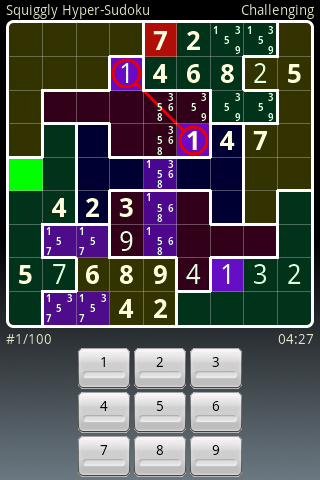
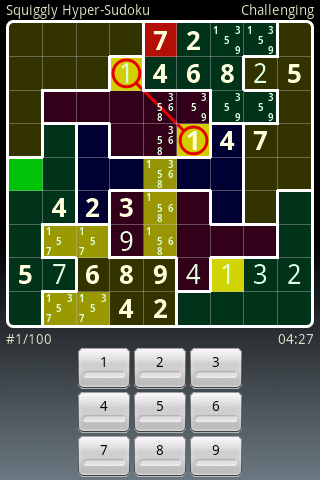
added dark theme
git-svn-id: http://andoku.googlecode.com/svn/trunk@297 8b5035ae-46ba-11de-80ae-c1ff141340a0

diff --git a/Andoku/src/com/googlecode/andoku/ColorThemePolicy.java b/Andoku/src/com/googlecode/andoku/ColorThemePolicy.java
@@ -1,0 +1,58 @@
+/*
+ * Andoku - a sudoku puzzle game for Android.
+ * Copyright (C)   Markus Wiederkehr
+ *
+ * This file is part of Andoku.
+ *
+ * Andoku is free software: you can redistribute it and/or modify
+ * it under the terms of the GNU General Public License as published by
+ * the Free Software Foundation, either version 3 of the License, or
+ * (at your option) any later version.
+ *
+ * Andoku is distributed in the hope that it will be useful,
+ * but WITHOUT ANY WARRANTY; without even the implied warranty of
+ * MERCHANTABILITY or FITNESS FOR A PARTICULAR PURPOSE.  See the
+ * GNU General Public License for more details.
+ *
+ * You should have received a copy of the GNU General Public License
+ * along with Andoku.  If not, see <http://www.gnu.org/licenses/>.
+ */
+
+package com.googlecode.andoku;
+
+import com.googlecode.andoku.ColorTheme.Builder;
+
+public enum ColorThemePolicy {
+	CLASSIC {
+		@Override
+		public void customize(Builder builder) {
+		}
+	},
+
+	DARK {
+		@Override
+		public void customize(Builder builder) {
+			builder.backgroudColors = new int[] { 0xff000000, 0xff000000, 0xff6b7881 };
+			builder.puzzleBackgroundColor = 0xff000000;
+			builder.nameTextColor = 0xffffffdd;
+			builder.difficultyTextColor = 0xffffffdd;
+			builder.sourceTextColor = 0xffffffdd;
+			builder.timerTextColor = 0xffffffdd;
+			builder.gridColor = 0x66bfbfbf;
+			builder.borderColor = 0xffffffff;
+			builder.extraRegionColor = 0xcd7b89cd;
+			builder.valueColor = 0xffddffdd;
+			builder.clueColor = 0xffffffdd;
+			builder.errorColor = 0xffe60000;
+			builder.markedCellColor = 0xb300ff00;
+			builder.markedClueColor = 0xb3ff0000;
+			builder.areaColors2 = new int[] { 0xff000000, 0xff333333 };
+			builder.areaColors3 = new int[] { 0xff000033, 0xff330000, 0xff003300 };
+			builder.areaColors4 = new int[] { 0xff000033, 0xff33001a, 0xff333300, 0xff00331a };
+			builder.highlightedCellColorSingleDigit = 0xe6e6e600;
+			builder.highlightedCellColorMultipleDigits = 0xe6a6a600;
+		}
+	};
+
+	public abstract void customize(Builder builder);
+}

diff --git a/Andoku/src/com/googlecode/andoku/AndokuActivity.java b/Andoku/src/com/googlecode/andoku/AndokuActivity.java
@@ -288,28 +288,9 @@ public class AndokuActivity extends Activity
 		builder.highlightDigitsPolicy = HighlightDigitsPolicy.valueOf(settings.getString(
 				Settings.KEY_HIGHLIGHT_DIGITS, HighlightDigitsPolicy.ONLY_SINGLE_VALUES.name()));
 
-		// TODO: set colors
-
-//		// example for a sandy theme
-//		builder.backgroudColors = new int[] { 0xffefefef };
-//		builder.puzzleBackgroundColor = 0xffffffea;
-//		builder.nameTextColor = 0xff000000;
-//		builder.difficultyTextColor = 0xff000000;
-//		builder.sourceTextColor = 0xff000000;
-//		builder.timerTextColor = 0xff000000;
-//		builder.gridColor = 0x5a000000;
-//		builder.borderColor = 0xff000000;
-//		builder.extraRegionColor = 0x4d00ff00;
-//		builder.valueColor = 0xff0e4772;
-//		builder.clueColor = 0xff000000;
-//		builder.errorColor = 0xffff4a4a;
-//		builder.markedCellColor = 0x9affa600;
-//		builder.markedClueColor = 0x9aff0000;
-//		builder.areaColors2 = new int[] { 0xffffffff, 0xffe0e0e0 };
-//		builder.areaColors3 = new int[] { 0xffffd9d9, 0xffd9ffd9, 0xffd9d9ff };
-//		builder.areaColors4 = new int[] { 0xffffffd9, 0xffd9ffec, 0xffd9d9ff, 0xffffd9ec };
-//		builder.highlightedCellColorSingleDigit = 0xe6ffff00;
-//		builder.highlightedCellColorMultipleDigits = 0xe6bebe00;
+		ColorThemePolicy colorThemePolicy = ColorThemePolicy.valueOf(settings.getString(
+				Settings.KEY_COLOR_THEME, ColorThemePolicy.CLASSIC.name()));
+		colorThemePolicy.customize(builder);
 
 		Theme theme = builder.build();
 

diff --git a/Andoku/src/com/googlecode/andoku/Settings.java b/Andoku/src/com/googlecode/andoku/Settings.java
@@ -24,6 +24,7 @@ package com.googlecode.andoku;
 public class Settings {
 	public static final String KEY_COLORED_REGIONS = "colored_regions";
 	public static final String KEY_HIGHLIGHT_DIGITS = "highlight_digits_2";
+	public static final String KEY_COLOR_THEME = "color_theme";
 	public static final String KEY_SHOW_TIMER = "show_timer";
 	public static final String KEY_FULLSCREEN_MODE = "fullscreen_mode";
 	public static final String KEY_INPUT_METHOD = "input_method";
